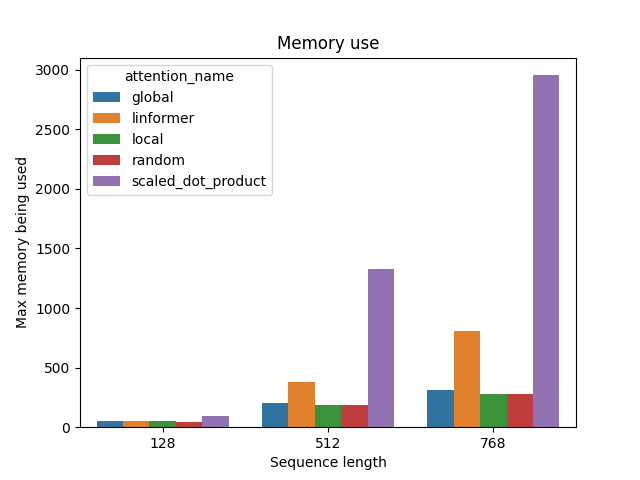
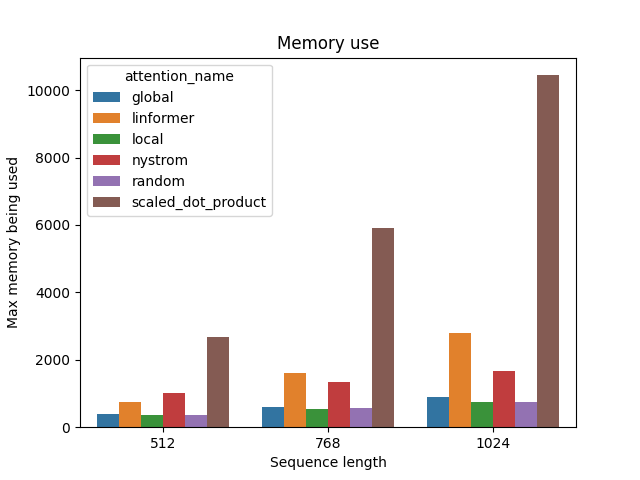
[minor] longer sequence, closer to what people actually use (#77)

diff --git a/benchmarks/benchmark_encoder.py b/benchmarks/benchmark_encoder.py
@@ -278,10 +278,10 @@ if __name__ == "__main__":
         "-act", "--activations", nargs="+", default=[a.value for a in Activation]
     )
     parser.add_argument(
-        "-emb", "--embedding_dim", nargs="+", default=[64, 128, 512], type=int
+        "-emb", "--embedding_dim", nargs="+", default=[64, 128, 256], type=int
     )
     parser.add_argument(
-        "-sl", "--sequence_length", nargs="+", default=[128, 512, 768], type=int
+        "-sl", "--sequence_length", nargs="+", default=[512, 768, 1024], type=int
     )
     parser.add_argument("-bs", "--batch_size", nargs="+", default=[8, 16, 32], type=int)
     parser.add_argument("-heads", "--heads", nargs="+", default=[8, 16], type=int)
